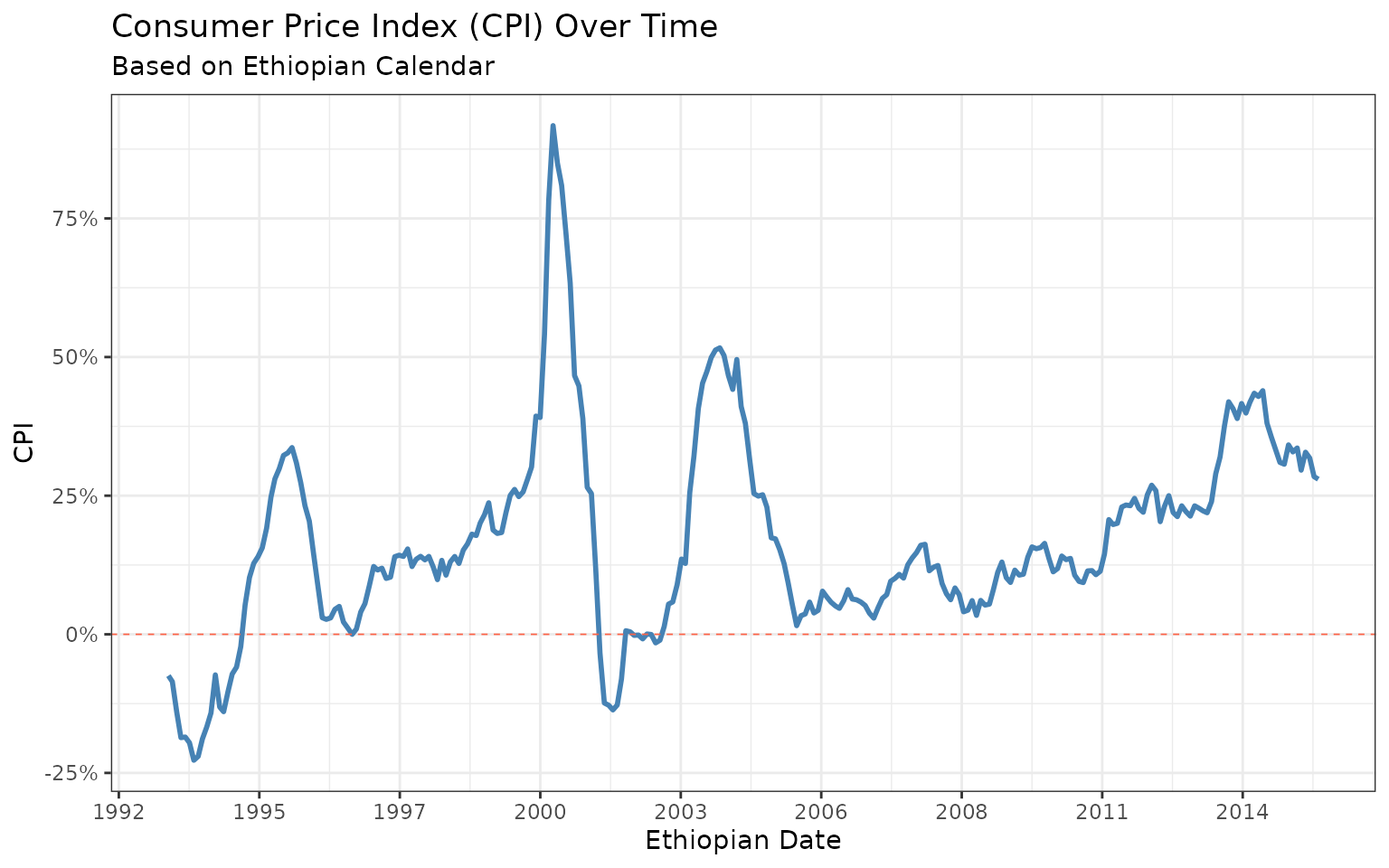
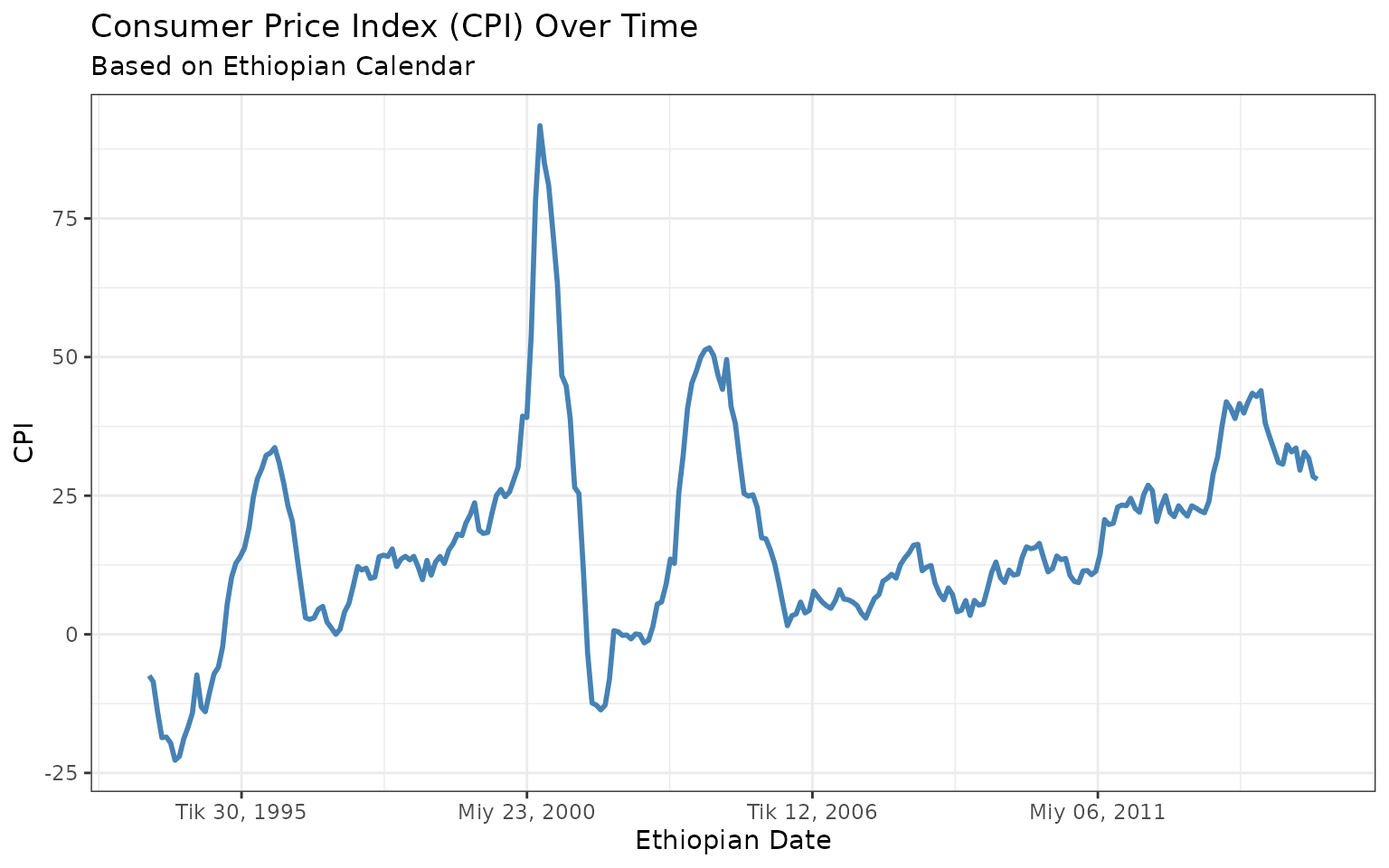
Deploying to gh-pages from @ GutUrago/ethiodate@1b7d3f2a2284d45dda059de24fa9b03af8e7a102 🚀

diff --git a/articles/ggplot.html b/articles/ggplot.html
@@ -87,7 +87,7 @@
       <img src="../logo.png" class="logo" alt=""><h1>ethiodate and ggplot2</h1>
             
       
-
+      <small class="dont-index">Source: <a href="https://github.com/guturago/ethiodate/blob/main/vignettes/ggplot.Rmd" class="external-link"><code>vignettes/ggplot.Rmd</code></a></small>
       <div class="d-none name"><code>ggplot.Rmd</code></div>
     </div>
 
@@ -111,7 +111,6 @@ Consumer Price Index (CPI) data from 2001 onward.</p>
 <code class="sourceCode R"><span><span class="kw"><a href="https://rdrr.io/r/base/library.html" class="external-link">library</a></span><span class="op">(</span><span class="va"><a href="https://guturago.github.io/ethiodate/">ethiodate</a></span><span class="op">)</span></span>
 <span><span class="kw"><a href="https://rdrr.io/r/base/library.html" class="external-link">library</a></span><span class="op">(</span><span class="va"><a href="https://ggplot2.tidyverse.org" class="external-link">ggplot2</a></span><span class="op">)</span></span>
 <span><span class="kw"><a href="https://rdrr.io/r/base/library.html" class="external-link">library</a></span><span class="op">(</span><span class="va"><a href="https://dplyr.tidyverse.org" class="external-link">dplyr</a></span><span class="op">)</span></span>
-<span><span class="fu"><a href="https://ggplot2.tidyverse.org/reference/theme_get.html" class="external-link">theme_set</a></span><span class="op">(</span><span class="fu"><a href="https://ggplot2.tidyverse.org/reference/ggtheme.html" class="external-link">theme_minimal</a></span><span class="op">(</span>base_family <span class="op">=</span> <span class="st">"Noto Sans Ethiopic"</span><span class="op">)</span><span class="op">)</span></span>
 <span><span class="fu"><a href="https://rdrr.io/r/utils/head.html" class="external-link">head</a></span><span class="op">(</span><span class="va">cpieth</span><span class="op">)</span></span>
 <span><span class="co">#&gt; <span style="color: #949494;"># A tibble: 6 × 2</span></span></span>
 <span><span class="co">#&gt;   date          cpi</span></span>
@@ -149,7 +148,7 @@ different components of the date like year, month, and quarter</p>
 <span>  <span class="fu"><a href="https://ggplot2.tidyverse.org/reference/ggtheme.html" class="external-link">theme_bw</a></span><span class="op">(</span><span class="op">)</span></span>
 <span></span>
 <span><span class="va">p</span></span></code></pre></div>
-<p><img src="ggplot_files/figure-html/unnamed-chunk-3-1.png" width="768"></p>
+<p><img src="ggplot_files/figure-html/unnamed-chunk-4-1.png" width="768"></p>
 <p>What makes this plot powerful is that we’re using
 the<code>ethdate</code> object directly on the x-axis. There’s no need
 to manually convert or relabel — it just works.</p>
@@ -171,7 +170,7 @@ reference</li>
 <span>                  labels <span class="op">=</span> <span class="fu"><a href="../reference/ethdate-ggplot.html">eth_labels</a></span><span class="op">(</span><span class="st">"%Y"</span><span class="op">)</span><span class="op">)</span> <span class="op">+</span> </span>
 <span>  <span class="fu"><a href="https://ggplot2.tidyverse.org/reference/scale_continuous.html" class="external-link">scale_y_continuous</a></span><span class="op">(</span>labels <span class="op">=</span> <span class="fu">scales</span><span class="fu">::</span><span class="fu"><a href="https://scales.r-lib.org/reference/label_percent.html" class="external-link">label_percent</a></span><span class="op">(</span>scale <span class="op">=</span> <span class="fl">1</span><span class="op">)</span><span class="op">)</span> <span class="op">+</span> </span>
 <span>  <span class="fu"><a href="https://ggplot2.tidyverse.org/reference/geom_abline.html" class="external-link">geom_hline</a></span><span class="op">(</span>yintercept <span class="op">=</span> <span class="fl">0</span>, linewidth <span class="op">=</span> <span class="fl">0.3</span>, linetype <span class="op">=</span> <span class="fl">2</span>, color <span class="op">=</span> <span class="st">"tomato"</span><span class="op">)</span></span></code></pre></div>
-<p><img src="ggplot_files/figure-html/unnamed-chunk-4-1.png" width="768"></p>
+<p><img src="ggplot_files/figure-html/unnamed-chunk-5-1.png" width="768"></p>
 <p>This gives you a clean, elegant time series plot that speaks directly
 to Ethiopian policymakers and economists.</p>
 </div>
@@ -181,17 +180,19 @@ to Ethiopian policymakers and economists.</p>
 <p>Now, let’s understand seasonal CPI patterns across Ethiopian
 years:</p>
 <div class="sourceCode" id="cb5"><pre class="downlit sourceCode r">
-<code class="sourceCode R"><span><span class="va">cpieth</span> <span class="op">|&gt;</span> </span>
+<code class="sourceCode R"><span><span class="va">p1</span> <span class="op">&lt;-</span> <span class="va">cpieth</span> <span class="op">|&gt;</span> </span>
 <span>  <span class="fu"><a href="https://dplyr.tidyverse.org/reference/filter.html" class="external-link">filter</a></span><span class="op">(</span><span class="va">eyear</span> <span class="op">&gt;</span> <span class="fl">2005</span> <span class="op">&amp;</span> <span class="va">eyear</span> <span class="op">&lt;</span> <span class="fl">2015</span><span class="op">)</span> <span class="op">|&gt;</span> </span>
 <span>  <span class="fu"><a href="https://ggplot2.tidyverse.org/reference/ggplot.html" class="external-link">ggplot</a></span><span class="op">(</span><span class="fu"><a href="https://ggplot2.tidyverse.org/reference/aes.html" class="external-link">aes</a></span><span class="op">(</span>x <span class="op">=</span> <span class="va">emonth</span>, y <span class="op">=</span> <span class="va">cpi</span>, group <span class="op">=</span> <span class="va">eyear</span>, color <span class="op">=</span> <span class="fu"><a href="https://rdrr.io/r/base/factor.html" class="external-link">factor</a></span><span class="op">(</span><span class="va">eyear</span><span class="op">)</span><span class="op">)</span><span class="op">)</span> <span class="op">+</span></span>
 <span>  <span class="fu"><a href="https://ggplot2.tidyverse.org/reference/geom_path.html" class="external-link">geom_line</a></span><span class="op">(</span><span class="op">)</span> <span class="op">+</span></span>
-<span>  <span class="fu"><a href="https://ggplot2.tidyverse.org/reference/scale_continuous.html" class="external-link">scale_x_continuous</a></span><span class="op">(</span>breaks <span class="op">=</span> <span class="fl">1</span><span class="op">:</span><span class="fl">13</span>, labels <span class="op">=</span> <span class="fu"><a href="../reference/eth_show.html">eth_show</a></span><span class="op">(</span>lang <span class="op">=</span> <span class="st">"lat"</span><span class="op">)</span><span class="op">)</span> <span class="op">+</span></span>
+<span>  <span class="fu"><a href="https://ggplot2.tidyverse.org/reference/scale_continuous.html" class="external-link">scale_x_continuous</a></span><span class="op">(</span>breaks <span class="op">=</span> <span class="fl">1</span><span class="op">:</span><span class="fl">13</span>, labels <span class="op">=</span> <span class="fu"><a href="../reference/eth_show.html">eth_show</a></span><span class="op">(</span>lang <span class="op">=</span> <span class="st">"amh"</span><span class="op">)</span><span class="op">)</span> <span class="op">+</span></span>
 <span>  <span class="fu"><a href="https://ggplot2.tidyverse.org/reference/scale_continuous.html" class="external-link">scale_y_continuous</a></span><span class="op">(</span>labels <span class="op">=</span> <span class="fu">scales</span><span class="fu">::</span><span class="fu"><a href="https://scales.r-lib.org/reference/label_percent.html" class="external-link">label_percent</a></span><span class="op">(</span>scale <span class="op">=</span> <span class="fl">1</span><span class="op">)</span><span class="op">)</span> <span class="op">+</span></span>
 <span>  <span class="fu"><a href="https://ggplot2.tidyverse.org/reference/labs.html" class="external-link">labs</a></span><span class="op">(</span>title <span class="op">=</span> <span class="st">"CPI Seasonality by Ethiopian Year"</span>,</span>
 <span>       x <span class="op">=</span> <span class="st">"Month"</span>, y <span class="op">=</span> <span class="st">"CPI"</span>, color <span class="op">=</span> <span class="st">"Year"</span><span class="op">)</span> <span class="op">+</span></span>
 <span>  <span class="fu"><a href="https://ggplot2.tidyverse.org/reference/ggtheme.html" class="external-link">theme_bw</a></span><span class="op">(</span><span class="op">)</span> <span class="op">+</span> </span>
-<span>  <span class="fu"><a href="https://ggplot2.tidyverse.org/reference/theme.html" class="external-link">theme</a></span><span class="op">(</span>axis.text.x <span class="op">=</span> <span class="fu"><a href="https://ggplot2.tidyverse.org/reference/element.html" class="external-link">element_text</a></span><span class="op">(</span>angle <span class="op">=</span> <span class="fl">45</span>, vjust <span class="op">=</span> <span class="fl">0.9</span>, hjust <span class="op">=</span> <span class="fl">1</span><span class="op">)</span><span class="op">)</span></span></code></pre></div>
-<p><img src="ggplot_files/figure-html/unnamed-chunk-5-1.png" width="768"></p>
+<span>  <span class="fu"><a href="https://ggplot2.tidyverse.org/reference/theme.html" class="external-link">theme</a></span><span class="op">(</span>axis.text.x <span class="op">=</span> <span class="fu"><a href="https://ggplot2.tidyverse.org/reference/element.html" class="external-link">element_text</a></span><span class="op">(</span>angle <span class="op">=</span> <span class="fl">45</span>, vjust <span class="op">=</span> <span class="fl">0.9</span>, hjust <span class="op">=</span> <span class="fl">1</span>, face <span class="op">=</span> <span class="st">"bold"</span><span class="op">)</span><span class="op">)</span></span>
+<span></span>
+<span><span class="va">p1</span></span></code></pre></div>
+<p><img src="figures/p1.png" style="width:100.0%"></p>
 <p>What we see here is how CPI values shift month-to-month, year-by-year
 — with full support for the Ethiopian year. And by adding Amharic month
 labels with <code>eth_show(lang = "amh")</code>, we speak the language
@@ -203,16 +204,19 @@ of our audience — literally.</p>
 <p>Heatmaps provide a quick visual summary of monthly price
 patterns:</p>
 <div class="sourceCode" id="cb6"><pre class="downlit sourceCode r">
-<code class="sourceCode R"><span><span class="va">cpieth</span> <span class="op">|&gt;</span> </span>
+<code class="sourceCode R"><span><span class="va">p2</span> <span class="op">&lt;-</span> <span class="va">cpieth</span> <span class="op">|&gt;</span> </span>
 <span>  <span class="fu"><a href="https://dplyr.tidyverse.org/reference/filter.html" class="external-link">filter</a></span><span class="op">(</span><span class="va">eyear</span> <span class="op">&gt;</span> <span class="fl">1993</span> <span class="op">&amp;</span> <span class="va">eyear</span> <span class="op">&lt;</span> <span class="fl">2015</span><span class="op">)</span> <span class="op">|&gt;</span> </span>
 <span>  <span class="fu"><a href="https://ggplot2.tidyverse.org/reference/ggplot.html" class="external-link">ggplot</a></span><span class="op">(</span><span class="fu"><a href="https://ggplot2.tidyverse.org/reference/aes.html" class="external-link">aes</a></span><span class="op">(</span>x <span class="op">=</span> <span class="fu"><a href="https://rdrr.io/r/base/factor.html" class="external-link">factor</a></span><span class="op">(</span><span class="va">emonth</span><span class="op">)</span>, y <span class="op">=</span> <span class="fu"><a href="https://rdrr.io/r/base/factor.html" class="external-link">factor</a></span><span class="op">(</span><span class="va">eyear</span><span class="op">)</span>, fill <span class="op">=</span> <span class="va">cpi</span><span class="op">)</span><span class="op">)</span> <span class="op">+</span></span>
 <span>  <span class="fu"><a href="https://ggplot2.tidyverse.org/reference/geom_tile.html" class="external-link">geom_tile</a></span><span class="op">(</span>color <span class="op">=</span> <span class="st">"white"</span><span class="op">)</span> <span class="op">+</span></span>
 <span>  <span class="fu"><a href="https://ggplot2.tidyverse.org/reference/scale_viridis.html" class="external-link">scale_fill_viridis_c</a></span><span class="op">(</span>labels <span class="op">=</span> <span class="fu">scales</span><span class="fu">::</span><span class="fu"><a href="https://scales.r-lib.org/reference/label_percent.html" class="external-link">label_percent</a></span><span class="op">(</span>scale <span class="op">=</span> <span class="fl">1</span><span class="op">)</span><span class="op">)</span> <span class="op">+</span></span>
-<span>  <span class="fu"><a href="https://ggplot2.tidyverse.org/reference/scale_discrete.html" class="external-link">scale_x_discrete</a></span><span class="op">(</span>labels <span class="op">=</span> <span class="fu"><a href="../reference/eth_show.html">eth_show</a></span><span class="op">(</span><span class="st">"%b"</span>, <span class="st">"lat"</span><span class="op">)</span><span class="op">)</span> <span class="op">+</span></span>
+<span>  <span class="fu"><a href="https://ggplot2.tidyverse.org/reference/scale_discrete.html" class="external-link">scale_x_discrete</a></span><span class="op">(</span>labels <span class="op">=</span> <span class="fu"><a href="../reference/eth_show.html">eth_show</a></span><span class="op">(</span><span class="st">"%b"</span>, <span class="st">"amh"</span><span class="op">)</span><span class="op">)</span> <span class="op">+</span></span>
 <span>  <span class="fu"><a href="https://ggplot2.tidyverse.org/reference/labs.html" class="external-link">labs</a></span><span class="op">(</span>title <span class="op">=</span> <span class="st">"Monthly CPI Heatmap"</span>,</span>
 <span>       x <span class="op">=</span> <span class="st">"Ethiopian Month"</span>, y <span class="op">=</span> <span class="st">"Ethiopian Year"</span>, fill <span class="op">=</span> <span class="st">"CPI"</span><span class="op">)</span> <span class="op">+</span></span>
-<span>  <span class="fu"><a href="https://ggplot2.tidyverse.org/reference/ggtheme.html" class="external-link">theme_bw</a></span><span class="op">(</span><span class="op">)</span></span></code></pre></div>
-<p><img src="ggplot_files/figure-html/unnamed-chunk-6-1.png" width="768"></p>
+<span>  <span class="fu"><a href="https://ggplot2.tidyverse.org/reference/ggtheme.html" class="external-link">theme_bw</a></span><span class="op">(</span><span class="op">)</span> <span class="op">+</span> </span>
+<span>  <span class="fu"><a href="https://ggplot2.tidyverse.org/reference/theme.html" class="external-link">theme</a></span><span class="op">(</span>axis.text.x <span class="op">=</span> <span class="fu"><a href="https://ggplot2.tidyverse.org/reference/element.html" class="external-link">element_text</a></span><span class="op">(</span>face <span class="op">=</span> <span class="st">"bold"</span><span class="op">)</span><span class="op">)</span></span>
+<span></span>
+<span><span class="va">p2</span></span></code></pre></div>
+<p><img src="figures/p2.png" style="width:100.0%"></p>
 <p>Heatmaps are excellent for revealing spikes, drops, and anomalies. In
 just one frame, you can identify patterns like seasonal inflation or
 economic shocks. The Ethiopian months are elegantly handled, and the
@@ -238,7 +242,7 @@ ethiodate — no need for hardcoded date logic.</p>
 <span>       x <span class="op">=</span> <span class="st">"Ethiopian Quarter"</span>, y <span class="op">=</span> <span class="st">"Average CPI"</span><span class="op">)</span> <span class="op">+</span></span>
 <span>  <span class="fu"><a href="https://ggplot2.tidyverse.org/reference/ggtheme.html" class="external-link">theme_bw</a></span><span class="op">(</span><span class="op">)</span> <span class="op">+</span></span>
 <span>  <span class="fu"><a href="https://ggplot2.tidyverse.org/reference/theme.html" class="external-link">theme</a></span><span class="op">(</span>axis.text.x <span class="op">=</span> <span class="fu"><a href="https://ggplot2.tidyverse.org/reference/element.html" class="external-link">element_text</a></span><span class="op">(</span>angle <span class="op">=</span> <span class="fl">45</span>, vjust <span class="op">=</span> <span class="fl">1</span>, hjust<span class="op">=</span><span class="fl">1</span><span class="op">)</span><span class="op">)</span></span></code></pre></div>
-<p><img src="ggplot_files/figure-html/unnamed-chunk-7-1.png" width="768"></p>
+<p><img src="ggplot_files/figure-html/unnamed-chunk-10-1.png" width="768"></p>
 </div>
 <div class="section level2">
 <h2 id="summary">Summary<a class="anchor" aria-label="anchor" href="#summary"></a>

diff --git a/articles/parsing.html b/articles/parsing.html
@@ -87,7 +87,7 @@
       <img src="../logo.png" class="logo" alt=""><h1>Parse Ethiopian Dates</h1>
             
       
-
+      <small class="dont-index">Source: <a href="https://github.com/guturago/ethiodate/blob/main/vignettes/parsing.Rmd" class="external-link"><code>vignettes/parsing.Rmd</code></a></small>
       <div class="d-none name"><code>parsing.Rmd</code></div>
     </div>
 
@@ -191,11 +191,11 @@ origin is provided, it defaults to the standard 1962-04-23 EC.</p>
 <div class="sourceCode" id="cb6"><pre class="downlit sourceCode r">
 <code class="sourceCode R"><span><span class="co"># Create an ethdate object 7 days after today</span></span>
 <span><span class="fu"><a href="../reference/eth_date.html">eth_date</a></span><span class="op">(</span><span class="fl">7</span>, origin <span class="op">=</span> <span class="fu"><a href="../reference/eth_show.html">eth_today</a></span><span class="op">(</span><span class="op">)</span><span class="op">)</span></span>
-<span><span class="co">#&gt; [1] "2017-09-27"</span></span>
+<span><span class="co">#&gt; [1] "2017-10-25"</span></span>
 <span></span>
 <span><span class="co"># Create an ethdate object 7 days before today</span></span>
 <span><span class="fu"><a href="../reference/eth_date.html">eth_date</a></span><span class="op">(</span><span class="op">-</span><span class="fl">7</span>, origin <span class="op">=</span> <span class="fu"><a href="../reference/eth_show.html">eth_today</a></span><span class="op">(</span><span class="op">)</span><span class="op">)</span></span>
-<span><span class="co">#&gt; [1] "2017-09-13"</span></span></code></pre></div>
+<span><span class="co">#&gt; [1] "2017-10-11"</span></span></code></pre></div>
 </div>
 <div class="section level3">
 <h3 id="from-components">From Components<a class="anchor" aria-label="anchor" href="#from-components"></a>
@@ -309,15 +309,15 @@ format codes to customize the output.</p>
 <div class="sourceCode" id="cb13"><pre class="downlit sourceCode r">
 <code class="sourceCode R"><span><span class="co"># Format today's date in a custom string</span></span>
 <span><span class="fu"><a href="https://rdrr.io/r/base/format.html" class="external-link">format</a></span><span class="op">(</span><span class="fu"><a href="../reference/eth_show.html">eth_today</a></span><span class="op">(</span><span class="op">)</span>, format <span class="op">=</span> <span class="st">"This document was updated on %B %d, %Y EC."</span><span class="op">)</span></span>
-<span><span class="co">#&gt; [1] "This document was updated on Ginbot 20, 2017 EC."</span></span>
+<span><span class="co">#&gt; [1] "This document was updated on Sene 18, 2017 EC."</span></span>
 <span></span>
 <span><span class="co"># Format with day of the week and year</span></span>
 <span><span class="fu"><a href="https://rdrr.io/r/base/format.html" class="external-link">format</a></span><span class="op">(</span><span class="fu"><a href="../reference/eth_show.html">eth_today</a></span><span class="op">(</span><span class="op">)</span>, format <span class="op">=</span> <span class="st">"Today is %A, %B %d, %Y."</span><span class="op">)</span></span>
-<span><span class="co">#&gt; [1] "Today is Rebu, Ginbot 20, 2017."</span></span>
+<span><span class="co">#&gt; [1] "Today is Rebu, Sene 18, 2017."</span></span>
 <span></span>
 <span><span class="co"># Format in Amharic</span></span>
 <span><span class="fu"><a href="https://rdrr.io/r/base/format.html" class="external-link">format</a></span><span class="op">(</span><span class="fu"><a href="../reference/eth_show.html">eth_today</a></span><span class="op">(</span><span class="op">)</span>, format <span class="op">=</span> <span class="st">"%A، %B %d ቀን %Y ዓ.ም."</span>, lang <span class="op">=</span> <span class="st">"amh"</span><span class="op">)</span></span>
-<span><span class="co">#&gt; [1] "ረቡዕ، ግንቦት 20 ቀን 2017 ዓ.ም."</span></span></code></pre></div>
+<span><span class="co">#&gt; [1] "ረቡዕ، ሰኔ 18 ቀን 2017 ዓ.ም."</span></span></code></pre></div>
 </div>
 <div class="section level2">
 <h2 id="conclusion">Conclusion<a class="anchor" aria-label="anchor" href="#conclusion"></a>

diff --git a/reference/eth_date.html b/reference/eth_date.html
@@ -54,7 +54,7 @@
 <div class="row">
   <main id="main" class="col-md-9"><div class="page-header">
       <img src="../logo.png" class="logo" alt=""><h1>Create an Ethiopian Date Object</h1>
-
+      <small class="dont-index">Source: <a href="https://github.com/guturago/ethiodate/blob/main/R/dates.R" class="external-link"><code>R/dates.R</code></a></small>
       <div class="d-none name"><code>eth_date.Rd</code></div>
     </div>
 
@@ -142,17 +142,17 @@ to <code>ethdate</code> after being internally converted to character.</p>
     <h2 id="ref-examples">Examples<a class="anchor" aria-label="anchor" href="#ref-examples"></a></h2>
     <div class="sourceCode"><pre class="sourceCode r"><code><span class="r-in"><span></span></span>
 <span class="r-in"><span><span class="fu">eth_date</span><span class="op">(</span><span class="fu"><a href="https://rdrr.io/r/base/Sys.time.html" class="external-link">Sys.Date</a></span><span class="op">(</span><span class="op">)</span><span class="op">)</span></span></span>
-<span class="r-out co"><span class="r-pr">#&gt;</span> [1] "2017-09-20"</span>
+<span class="r-out co"><span class="r-pr">#&gt;</span> [1] "2017-10-18"</span>
 <span class="r-in"><span><span class="fu">eth_date</span><span class="op">(</span><span class="fu"><a href="https://rdrr.io/r/base/Sys.time.html" class="external-link">Sys.time</a></span><span class="op">(</span><span class="op">)</span><span class="op">)</span></span></span>
-<span class="r-out co"><span class="r-pr">#&gt;</span> [1] "2017-09-20"</span>
+<span class="r-out co"><span class="r-pr">#&gt;</span> [1] "2017-10-18"</span>
 <span class="r-in"><span></span></span>
 <span class="r-in"><span><span class="va">x</span> <span class="op">&lt;-</span> <span class="fl">7</span></span></span>
 <span class="r-in"><span><span class="fu">eth_date</span><span class="op">(</span><span class="va">x</span><span class="op">)</span></span></span>
 <span class="r-out co"><span class="r-pr">#&gt;</span> [1] "1962-04-30"</span>
 <span class="r-in"><span><span class="fu">eth_date</span><span class="op">(</span><span class="va">x</span>, origin <span class="op">=</span> <span class="fu"><a href="https://rdrr.io/r/base/Sys.time.html" class="external-link">Sys.Date</a></span><span class="op">(</span><span class="op">)</span><span class="op">)</span></span></span>
-<span class="r-out co"><span class="r-pr">#&gt;</span> [1] "2017-09-27"</span>
+<span class="r-out co"><span class="r-pr">#&gt;</span> [1] "2017-10-25"</span>
 <span class="r-in"><span><span class="fu">eth_date</span><span class="op">(</span><span class="va">x</span>, origin <span class="op">=</span> <span class="fu"><a href="eth_show.html">eth_today</a></span><span class="op">(</span><span class="op">)</span><span class="op">)</span></span></span>
-<span class="r-out co"><span class="r-pr">#&gt;</span> [1] "2017-09-27"</span>
+<span class="r-out co"><span class="r-pr">#&gt;</span> [1] "2017-10-25"</span>
 <span class="r-in"><span><span class="fu">eth_date</span><span class="op">(</span><span class="va">x</span>, origin <span class="op">=</span> <span class="st">"2017-01-01"</span><span class="op">)</span></span></span>
 <span class="r-out co"><span class="r-pr">#&gt;</span> [1] "2017-01-08"</span>
 <span class="r-in"><span><span class="fu">eth_date</span><span class="op">(</span><span class="va">x</span>, origin <span class="op">=</span> <span class="st">"01-01-2017"</span>, format <span class="op">=</span> <span class="st">"%d-%m-%Y"</span><span class="op">)</span></span></span>

diff --git a/reference/eth_year.html b/reference/eth_year.html
@@ -54,7 +54,7 @@
 <div class="row">
   <main id="main" class="col-md-9"><div class="page-header">
       <img src="../logo.png" class="logo" alt=""><h1>Ethiopian Date Components</h1>
-
+      <small class="dont-index">Source: <a href="https://github.com/guturago/ethiodate/blob/main/R/date-components.R" class="external-link"><code>R/date-components.R</code></a></small>
       <div class="d-none name"><code>eth_year.Rd</code></div>
     </div>
 
@@ -109,11 +109,11 @@
 <span class="r-in"><span><span class="fu">eth_year</span><span class="op">(</span><span class="va">today</span><span class="op">)</span></span></span>
 <span class="r-out co"><span class="r-pr">#&gt;</span> [1] 2017</span>
 <span class="r-in"><span><span class="fu">eth_month</span><span class="op">(</span><span class="va">today</span><span class="op">)</span></span></span>
-<span class="r-out co"><span class="r-pr">#&gt;</span> [1] 9</span>
+<span class="r-out co"><span class="r-pr">#&gt;</span> [1] 10</span>
 <span class="r-in"><span><span class="fu">eth_monthname</span><span class="op">(</span><span class="va">today</span><span class="op">)</span></span></span>
-<span class="r-out co"><span class="r-pr">#&gt;</span> [1] "Ginbot"</span>
+<span class="r-out co"><span class="r-pr">#&gt;</span> [1] "Sene"</span>
 <span class="r-in"><span><span class="fu">eth_day</span><span class="op">(</span><span class="va">today</span><span class="op">)</span></span></span>
-<span class="r-out co"><span class="r-pr">#&gt;</span> [1] 20</span>
+<span class="r-out co"><span class="r-pr">#&gt;</span> [1] 18</span>
 <span class="r-in"><span><span class="fu">eth_weekday</span><span class="op">(</span><span class="va">today</span><span class="op">)</span></span></span>
 <span class="r-out co"><span class="r-pr">#&gt;</span> [1] "Rebu"</span>
 </code></pre></div>

diff --git a/reference/eth_show.html b/reference/eth_show.html
@@ -54,7 +54,7 @@
 <div class="row">
   <main id="main" class="col-md-9"><div class="page-header">
       <img src="../logo.png" class="logo" alt=""><h1>See Month or Day Names</h1>
-
+      <small class="dont-index">Source: <a href="https://github.com/guturago/ethiodate/blob/main/R/utils.R" class="external-link"><code>R/utils.R</code></a></small>
       <div class="d-none name"><code>eth_show.Rd</code></div>
     </div>
 
@@ -111,9 +111,9 @@
 <span class="r-out co"><span class="r-pr">#&gt;</span>      1      2      3      4      5      6      7 </span>
 <span class="r-out co"><span class="r-pr">#&gt;</span>   "ሰኞ" "ማክሰኞ"  "ረቡዕ"  "ሐሙስ"  "ዓርብ"  "ቅዳሜ"  "እሁድ" </span>
 <span class="r-in"><span><span class="fu">eth_today</span><span class="op">(</span><span class="op">)</span></span></span>
-<span class="r-out co"><span class="r-pr">#&gt;</span> [1] "2017-09-20"</span>
+<span class="r-out co"><span class="r-pr">#&gt;</span> [1] "2017-10-18"</span>
 <span class="r-in"><span><span class="fu">eth_now</span><span class="op">(</span><span class="op">)</span></span></span>
-<span class="r-out co"><span class="r-pr">#&gt;</span> [1] "2017-09-20 07:48:27 PM"</span>
+<span class="r-out co"><span class="r-pr">#&gt;</span> [1] "2017-10-18 01:53:33 PM"</span>
 <span class="r-in"><span></span></span>
 </code></pre></div>
     </div>

diff --git a/authors.html b/authors.html
@@ -67,19 +67,16 @@
 
     <div class="section level2">
       <h2 id="citation">Citation</h2>
-      <p></p>
+      <p><small class="dont-index">Source: <a href="https://github.com/guturago/ethiodate/blob/main/inst/CITATION" class="external-link"><code>inst/CITATION</code></a></small></p>
 
-      <p>Urago GG (2025).
-<em>ethiodate: Working with Ethiopian Dates in R</em>.
-<a href="https://doi.org/10.5281/zenodo.15262092" class="external-link">doi:10.5281/zenodo.15262092</a>, R package version 0.1.0, <a href="https://guturago.github.io/ethiodate/">https://guturago.github.io/ethiodate/</a>.
-</p>
+      <p>Urago (2025). ethiodate: Working with Ethiopian Dates in R. R package version 0.2.0. doi:10.5281/zenodo.15262092. https://guturago.github.io/ethiodate/.</p>
       <pre>@Manual{,
   title = {ethiodate: Working with Ethiopian Dates in R},
   author = {Gutama Girja Urago},
-  url = {https://guturago.github.io/ethiodate/},
   year = {2025},
+  note = {R package version 0.2.0},
   doi = {10.5281/zenodo.15262092},
-  note = {R package version 0.1.0},
+  url = {https://guturago.github.io/ethiodate/},
 }</pre>
     </div>
 

diff --git a/news/index.html b/news/index.html
@@ -54,11 +54,11 @@
 <div class="row">
   <main id="main" class="col-md-9"><div class="page-header">
       <img src="../logo.png" class="logo" alt=""><h1>Changelog</h1>
-
+      <small>Source: <a href="https://github.com/guturago/ethiodate/blob/main/NEWS.md" class="external-link"><code>NEWS.md</code></a></small>
     </div>
 
     <div class="section level2">
-<h2 class="pkg-version" data-toc-text="0.2.0" id="ethiodate-020">ethiodate 0.2.0<a class="anchor" aria-label="anchor" href="#ethiodate-020"></a></h2>
+<h2 class="pkg-version" data-toc-text="0.2.0" id="ethiodate-020">ethiodate 0.2.0<a class="anchor" aria-label="anchor" href="#ethiodate-020"></a></h2><p class="text-muted">CRAN release: 2025-05-28</p>
 <div class="section level3">
 <h3 id="new-features-0-2-0">New Features<a class="anchor" aria-label="anchor" href="#new-features-0-2-0"></a></h3>
 <ul><li>Added <code><a href="../reference/ethdate-ggplot.html">scale_x_ethdate()</a></code> and <code><a href="../reference/ethdate-ggplot.html">scale_y_ethdate()</a></code>

diff --git a/reference/cpieth.html b/reference/cpieth.html
@@ -54,7 +54,7 @@
 <div class="row">
   <main id="main" class="col-md-9"><div class="page-header">
       <img src="../logo.png" class="logo" alt=""><h1>Monthly FAO Food Price Index 2001-2023</h1>
-
+      <small class="dont-index">Source: <a href="https://github.com/guturago/ethiodate/blob/main/R/data.R" class="external-link"><code>R/data.R</code></a></small>
       <div class="d-none name"><code>cpieth.Rd</code></div>
     </div>
 

diff --git a/reference/ethdate-ggplot.html b/reference/ethdate-ggplot.html
@@ -54,7 +54,7 @@
 <div class="row">
   <main id="main" class="col-md-9"><div class="page-header">
       <img src="../logo.png" class="logo" alt=""><h1>Plotting Ethiopian Date</h1>
-
+      <small class="dont-index">Source: <a href="https://github.com/guturago/ethiodate/blob/main/R/ggplot.R" class="external-link"><code>R/ggplot.R</code></a></small>
       <div class="d-none name"><code>ethdate-ggplot.Rd</code></div>
     </div>
 

diff --git a/reference/eth_parse_date.html b/reference/eth_parse_date.html
@@ -54,7 +54,7 @@
 <div class="row">
   <main id="main" class="col-md-9"><div class="page-header">
       <img src="../logo.png" class="logo" alt=""><h1>Parse Ethiopian Date</h1>
-
+      <small class="dont-index">Source: <a href="https://github.com/guturago/ethiodate/blob/main/R/dates.R" class="external-link"><code>R/dates.R</code></a></small>
       <div class="d-none name"><code>eth_parse_date.Rd</code></div>
     </div>
 

diff --git a/reference/eth_make_date.html b/reference/eth_make_date.html
@@ -54,7 +54,7 @@
 <div class="row">
   <main id="main" class="col-md-9"><div class="page-header">
       <img src="../logo.png" class="logo" alt=""><h1>Make Ethiopian Date</h1>
-
+      <small class="dont-index">Source: <a href="https://github.com/guturago/ethiodate/blob/main/R/dates.R" class="external-link"><code>R/dates.R</code></a></small>
       <div class="d-none name"><code>eth_make_date.Rd</code></div>
     </div>
 

diff --git a/reference/is_eth_date.html b/reference/is_eth_date.html
@@ -54,7 +54,7 @@
 <div class="row">
   <main id="main" class="col-md-9"><div class="page-header">
       <img src="../logo.png" class="logo" alt=""><h1>Utils</h1>
-
+      <small class="dont-index">Source: <a href="https://github.com/guturago/ethiodate/blob/main/R/utils.R" class="external-link"><code>R/utils.R</code></a></small>
       <div class="d-none name"><code>is_eth_date.Rd</code></div>
     </div>
 
